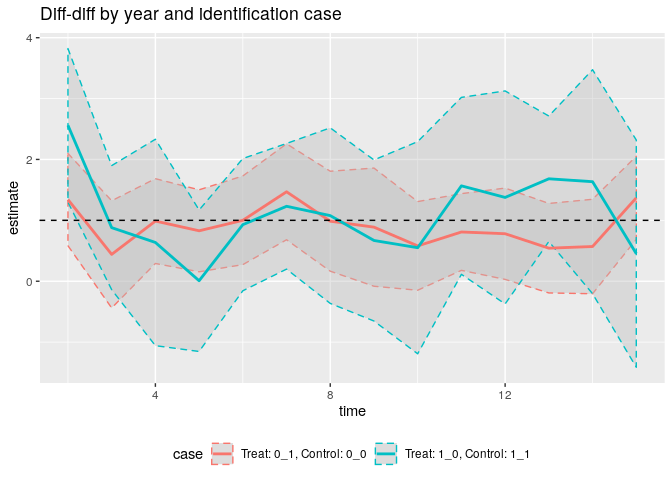
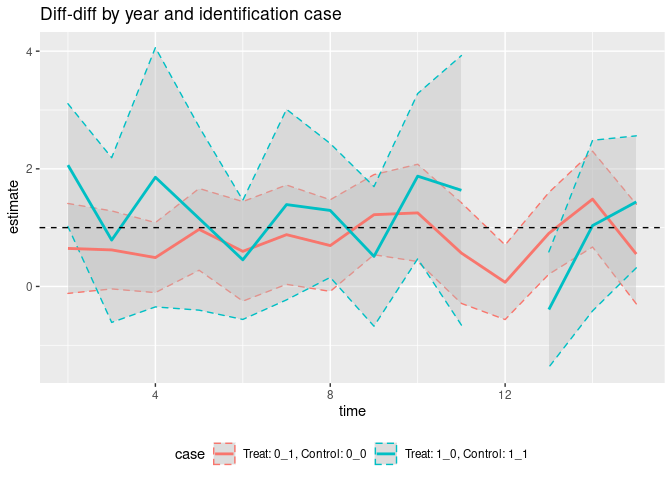
README: add badge

diff --git a/README.md b/README.md
@@ -3,6 +3,12 @@
 
 # multiDiff
 
+<!-- badges: start -->
+
+[![Lifecycle:
+experimental](https://img.shields.io/badge/lifecycle-experimental-orange.svg)](https://www.tidyverse.org/lifecycle/#experimental)
+<!-- badges: end -->
+
 This R package implements the multi-period diff-diff as discussed in
 Imai and Kim (2019) and Chaisemartin and Hautfeuille (2019).
 
@@ -43,13 +49,13 @@ DD_out <- DD(data=data)
 knitr::kable(DD_out[1:5,])
 ```
 
-| time | DiD | treat | control | n\_treat | n\_control | n\_min | miss\_data |  estimate | std.error | statistic |   p.value |    conf.low | conf.high |    D\_var | n\_vals |
-| ---: | --: | :---- | :------ | -------: | ---------: | -----: | :--------- | --------: | --------: | --------: | --------: | ----------: | --------: | --------: | ------: |
-|    2 |   1 | 0\_1  | 0\_0    |       17 |         59 |     17 | FALSE      | 1.1809653 | 0.3791100 |  3.115099 | 0.0026162 |   0.4255721 |  1.936359 | 0.0999913 |     152 |
-|    2 |   2 | 0\_1  | 1\_1    |       17 |          7 |      7 | FALSE      | 0.6139603 | 0.5640646 |  1.088457 | 0.2881738 | \-0.5558381 |  1.783759 | 0.2335993 |      48 |
-|    2 |   3 | 1\_0  | 0\_0    |       17 |         59 |     17 | FALSE      | 1.2824509 | 0.3740449 |  3.428602 | 0.0009947 |   0.5371503 |  2.027752 | 0.0999913 |     152 |
-|    2 |   4 | 1\_0  | 1\_1    |       17 |          7 |      7 | FALSE      | 1.8494559 | 0.5329308 |  3.470349 | 0.0021732 |   0.7442250 |  2.954687 | 0.2335993 |      48 |
-|    3 |   1 | 0\_1  | 0\_0    |       21 |         55 |     21 | FALSE      | 1.5187666 | 0.3661128 |  4.148357 | 0.0000884 |   0.7892710 |  2.248262 | 0.1198588 |     152 |
+| time | DiD | treat | control | n\_treat | n\_control | n\_min | miss\_data |    estimate | std.error |   statistic |   p.value |    conf.low | conf.high |    D\_var | n\_vals |
+| ---: | --: | :---- | :------ | -------: | ---------: | -----: | :--------- | ----------: | --------: | ----------: | --------: | ----------: | --------: | --------: | ------: |
+|    2 |   1 | 0\_1  | 0\_0    |       21 |         50 |     21 | FALSE      |   0.6462758 | 0.3832034 |   1.6865085 | 0.0962147 | \-0.1181941 |  1.410746 | 0.1269104 |     142 |
+|    2 |   2 | 0\_1  | 1\_1    |       21 |          5 |      5 | FALSE      | \-0.1444697 | 0.7759808 | \-0.1861769 | 0.8538707 | \-1.7460153 |  1.457076 | 0.2454751 |      52 |
+|    2 |   3 | 1\_0  | 0\_0    |       24 |         50 |     24 | FALSE      |   1.2720072 | 0.3211001 |   3.9614042 | 0.0001734 |   0.6319059 |  1.912108 | 0.1367899 |     148 |
+|    2 |   4 | 1\_0  | 1\_1    |       24 |          5 |      5 | FALSE      |   2.0627527 | 0.5086024 |   4.0557271 | 0.0003818 |   1.0191867 |  3.106319 | 0.2468240 |      58 |
+|    3 |   1 | 0\_1  | 0\_0    |       19 |         55 |     19 | FALSE      |   0.6212886 | 0.3327167 |   1.8673205 | 0.0659275 | \-0.0419699 |  1.284547 | 0.1126586 |     148 |
 
 Plot the year-by-year treatment:
 
@@ -78,11 +84,11 @@ DiD_aggreg(x=DD_out, by_DiD = FALSE)
 #> # A tibble: 1 x 1
 #>   estimate
 #>      <dbl>
-#> 1    0.983
+#> 1       NA
 DiD_aggreg(x=DD_out, by_DiD = TRUE)
 #> # A tibble: 2 x 4
 #>     DiD treat control estimate
 #>   <int> <chr> <chr>      <dbl>
-#> 1     1 0_1   0_0        0.877
-#> 2     4 1_0   1_1        1.09
+#> 1     1 0_1   0_0        0.757
+#> 2     4 1_0   1_1       NA
 ```
